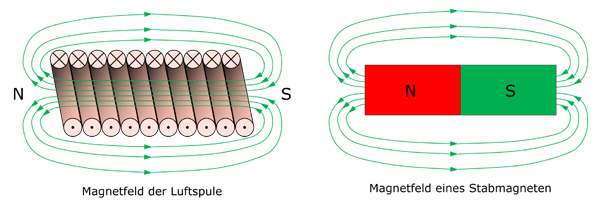
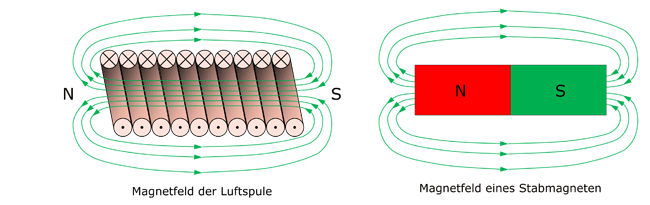
update

diff --git a/docs/searchindex.js b/docs/searchindex.js
@@ -1,1 +1,1 @@
-Search.setIndex({"docnames": ["geber/drehgeber", "grundlagen/grundlagen", "index", "motoren/asyncMot", "motoren/dcMot", "motoren/syncMot", "motoren/weitMot"], "filenames": ["geber/drehgeber.rst", "grundlagen/grundlagen.rst", "index.rst", "motoren/asyncMot.rst", "motoren/dcMot.rst", "motoren/syncMot.rst", "motoren/weitMot.rst"], "titles": ["Drehgeber", "Grundlagen elektrischer Maschinen", "elMaDocs", "Asynchronmotoren", "Gleichstrommotoren", "Synchronmotoren", "Weitere Motortypen"], "terms": {"dienen": 1, "der": [1, 6], "umformung": 1, "von": 1, "energi": 1, "generatoren": 1, "erzeugen": 1, "au": 1, "mechanisch": 1, "motoren": [1, 2], "rotierend": 1, "umform": 1, "wandeln": 1, "frequenz": 1, "und": 1, "spannung": 1, "trotz": 1, "aller": 1, "vielfalt": 1, "im": 1, "konstruktiven": 1, "detail": 1, "nach": 1, "dem": 1, "ausgef\u00fchrt": 1, "sein": 1, "k\u00f6nnen": 1, "i\u00e4sst": 1, "sich": 1, "ihr": 1, "wirkungsweis": 1, "stet": 1, "durch": 1, "anwendung": 1, "nur": 1, "drei": 1, "physikalischen": 1, "grundgesetzen": 1, "verstehen": 1, "beschreiben": 1, "induktionsgesetz": 1, "durchflutungsgesetz": 1, "kraftwirkungsgesetz": 1, "tbd": 1, "ein": [1, 6], "r\u00fcckblick": 1, "auf": 1, "die": 1, "entwicklung": 1, "zeigt": 1, "den": 1, "weg": 1, "war": 1, "fr\u00fcher": 1, "antrieb": 1, "mit": 1, "fester": 1, "drehzahl": 1, "\u00fcber": 1, "einen": 1, "drehstromasynchronmotor": 1, "verteilung": 1, "mechanischen": 1, "leistung": 1, "transmissionen": 1, "\u00fcblich": 1, "ging": 1, "trend": 1, "end": 1, "90er": 1, "verst\u00e4rkt": 1, "zum": 1, "angepassten": 1, "einzelmotorenantrieb": 1, "modul": 1, "einsatz": 1, "halbleitertechnik": 1, "beg\u00fcnstigt": 1, "dies": 1, "zun\u00e4chst": 1, "fanden": 1, "halbleiterger\u00e4t": 1, "al": 1, "netzgef\u00fchrt": 1, "stromricht": 1, "steller": 1, "gleichstrombereich": 1, "eingang": 1, "technik": 1, "drehzahlvariablen": 1, "damit": 1, "kann": 1, "ankerspannung": 1, "gleichstrommotor": 1, "weiten": 1, "bereichen": 1, "kontinuierlich": 1, "nahezu": 1, "verlustfrei": 1, "verstellt": 1, "werden": 1, "verstellung": 1, "erfolgen": 1, "verschlei\u00dfbehaftet": 1, "stellwiderst\u00e4nd": 1, "usw": 1, "entfallen": 1, "ankerstrom": 1, "auch": [1, 3], "gleichzeitig": 1, "drehmoment": 1, "geregelt": 1, "begrenzt": 1, "diesem": 1, "wege": 1, "lassen": 1, "aufbauen": 1, "sanft": 1, "ruckfrei": 1, "anlaufen": 1, "gew\u00fcnscht": 1, "vorgew\u00e4hlto": 1, "lastunabh\u00e4ngig": 1, "halten": 1, "einer": 1, "hohen": 1, "dynamik": 1, "arbeiten": 1, "ben\u00f6tigt": 1, "stromwenderapparat": 1, "hierin": 1, "begr\u00fcndet": 1, "liegt": 1, "stark": 1, "verbessert": 1, "b\u00fcrstenstandzeiten": 1, "bi": 1, "zu": 1, "20": 1, "000": 1, "betriebsstunden": 1, "wegen": 1, "de": 1, "verschlei\u00df": 1, "an": 1, "stromwend": 1, "b\u00fcrsten": 1, "gewiss": 1, "wartungsaufwand": 1, "\u00fcberdi": 1, "erfordert": 1, "r\u00fccksichtnahm": 1, "manchen": 1, "einsatzf\u00e4llen": 1, "z": 1, "b": 1, "bei": 1, "aggressiv": 1, "atmosph\u00e4r": 1, "r\u00fcttelkr\u00e4ften": 1, "drehzahlen": 1, "4": 1, "500": 1, "min": 1, "l": 1, "stillstandsbelastung": 1, "solchen": 1, "hat": 1, "drehstrommotor": 1, "kurzschlussl\u00e4uf": 1, "vorteil": 1, "ihm": 1, "verschlei\u00dffrei": 1, "drehfeld": 1, "vom": 1, "st\u00e4nder": 1, "l\u00e4ufer": 1, "\u00fcbertragen": 1, "wird": 1, "einfach": 1, "aufgebaut": 1, "k\u00e4figwicklung": 1, "l\u00e4sst": 1, "hohe": 1, "vollst\u00e4ndig": 1, "kapselung": 1, "erm\u00f6glicht": 1, "betrieb": 1, "fast": 1, "jeder": 1, "umgebung": 1, "frequenzumricht": 1, "zur": 1, "speisung": 1, "drehfeldmaschinen": 1, "bracht": 1, "so": 1, "umorientierung": 1, "elektrischen": 1, "antriebstechnik": 1, "bislang": 1, "netz": 1, "vorgegeben": 1, "fest": 1, "synchron": [1, 2], "gebunden": 1, "e": 1, "jedem": 1, "normmotor": 1, "machen": 1, "wechselstrom": 1, "drehstromnetz": 1, "variiert": 1, "dass": 1, "motor": 1, "stellbereichen": 1, "drehzahlvariabel": 1, "betrieben": 1, "elektronik": 1, "erlaubt": 1, "dabei": 1, "gute": 1, "anpassung": 1, "charakteristiken": 1, "arbeit": 1, "kraftmaschinen": 1, "einf\u00fchrung": 1, "digitaltechnik": 1, "regelverfahren": 1, "sogar": 1, "besser": 1, "dynamiken": 1, "gleichstromantrieb": 1, "erreichen": 1, "hier": 1, "zeichnen": 1, "heut": 1, "besonderen": 1, "servoantrieb": 1, "bestehend": 1, "servo": 1, "umricht": 1, "tr\u00e4gheitsmomentarmen": 1, "servomotoren": 1, "grundlagen": 2, "allgemein": 2, "da": 2, "magnetisch": 2, "feld": 2, "drehstrom": [2, 3], "oder": [2, 3], "gleichstrom": 2, "dc": 2, "aufbau": 2, "eigenschaften": 2, "synchronmotoren": 2, "permantenterregt": 2, "synchronmaschin": 2, "fremderregt": 2, "asynchronmotoren": 2, "weiter": 2, "motortypen": 2, "reluktanzmotor": 2, "drehgeb": 2, "asynchronmaschin": 3, "induktionsmaschin": 3, "video": 6, "synrm": 6, "neuer": 6, "gigant": 6, "elektrowelt": 6}, "objects": {}, "objtypes": {}, "objnames": {}, "titleterms": {"drehgeb": 0, "aufbau": [0, 3, 4, 5, 6], "eigenschaften": [0, 3, 4, 5, 6], "grundlagen": 1, "elektrisch": 1, "maschinen": 1, "allgemein": 1, "da": 1, "magnetisch": 1, "feld": 1, "drehstrom": 1, "oder": 1, "gleichstrom": 1, "elmadoc": 2, "asynchronmotoren": 3, "gleichstrommotoren": 4, "synchronmotoren": 5, "permantenterregt": 5, "synchronmaschin": 5, "fremderregt": 5, "weiter": 6, "motortypen": 6, "synchron": 6, "reluktanzmotor": 6}, "envversion": {"sphinx.domains.c": 3, "sphinx.domains.changeset": 1, "sphinx.domains.citation": 1, "sphinx.domains.cpp": 9, "sphinx.domains.index": 1, "sphinx.domains.javascript": 3, "sphinx.domains.math": 2, "sphinx.domains.python": 4, "sphinx.domains.rst": 2, "sphinx.domains.std": 2, "sphinx": 60}, "alltitles": {"Drehgeber": [[0, "drehgeber"]], "\u2026": [[0, "id1"], [0, "id2"]], "Aufbau": [[0, "aufbau"], [0, "id3"], [3, "aufbau"], [4, "aufbau"], [5, "aufbau"], [5, "id1"], [6, "aufbau"]], "Eigenschaften": [[0, "eigenschaften"], [0, "id4"], [3, "eigenschaften"], [4, "eigenschaften"], [5, "eigenschaften"], [5, "id2"], [6, "eigenschaften"]], "Grundlagen elektrischer Maschinen": [[1, "grundlagen-elektrischer-maschinen"]], "Allgemeine Grundlagen": [[1, "allgemeine-grundlagen"]], "Das magnetische Feld": [[1, "das-magnetische-feld"]], "Drehstrom oder Gleichstrom?": [[1, "drehstrom-oder-gleichstrom"]], "elMaDocs": [[2, "elmadocs"]], "Asynchronmotoren": [[3, "asynchronmotoren"]], "Gleichstrommotoren": [[4, "gleichstrommotoren"]], "Synchronmotoren": [[5, "synchronmotoren"]], "Permantenterregte Synchronmaschine": [[5, "permantenterregte-synchronmaschine"]], "Fremderregte Synchronmaschine": [[5, "fremderregte-synchronmaschine"]], "Weitere Motortypen": [[6, "weitere-motortypen"]], "Synchron-Reluktanzmotor": [[6, "synchron-reluktanzmotor"]]}, "indexentries": {}})
+Search.setIndex({"docnames": ["geber/drehgeber", "grundlagen/grundlagen", "index", "motoren/asyncMot", "motoren/dcMot", "motoren/syncMot", "motoren/weitMot"], "filenames": ["geber/drehgeber.rst", "grundlagen/grundlagen.rst", "index.rst", "motoren/asyncMot.rst", "motoren/dcMot.rst", "motoren/syncMot.rst", "motoren/weitMot.rst"], "titles": ["Drehgeber", "Grundlagen elektrischer Maschinen", "elMaDocs", "Asynchronmotoren", "Gleichstrommotoren", "Synchronmotoren", "Weitere Motortypen"], "terms": {"dienen": 1, "der": [1, 6], "umformung": 1, "von": 1, "energi": 1, "generatoren": 1, "erzeugen": 1, "au": 1, "mechanisch": 1, "motoren": [1, 2], "rotierend": 1, "umform": 1, "wandeln": 1, "frequenz": 1, "und": 1, "spannung": 1, "trotz": 1, "aller": 1, "vielfalt": 1, "im": 1, "konstruktiven": 1, "detail": 1, "nach": 1, "dem": 1, "ausgef\u00fchrt": 1, "sein": 1, "k\u00f6nnen": 1, "i\u00e4sst": 1, "sich": 1, "ihr": 1, "wirkungsweis": 1, "stet": 1, "durch": 1, "anwendung": 1, "nur": 1, "drei": 1, "physikalischen": 1, "grundgesetzen": 1, "verstehen": 1, "beschreiben": 1, "induktionsgesetz": 1, "durchflutungsgesetz": 1, "kraftwirkungsgesetz": 1, "je": 1, "gr\u00f6\u00dfer": 1, "zahl": 1, "nebeneinand": 1, "liegenden": 1, "gleichsinnig": 1, "vom": 1, "strom": 1, "durchflossenen": 1, "leiter": 1, "ist": 1, "desto": 1, "st\u00e4rker": 1, "umschlie\u00dfend": 1, "magnetfeld": 1, "spule": 1, "mit": 1, "ein": [1, 6], "stabmagneten": 1, "vergleichbar": 1, "dort": 1, "wo": 1, "feldlinien": 1, "verlassen": 1, "bildet": 1, "nordpol": 1, "sie": 1, "eindringen": 1, "s\u00fcdpol": 1, "stellt": 1, "somit": 1, "magnet": 1, "dar": 1, "ausschalten": 1, "l\u00e4sst": 1, "elektromagnet": 1, "allerd": 1, "f\u00fcr": 1, "ausbildung": 1, "starken": 1, "luftspul": 1, "relativ": 1, "hoher": 1, "notwendig": 1, "einem": 1, "gr\u00f6\u00dferen": 1, "querschnitt": 1, "den": 1, "wickeldraht": 1, "vermeidung": 1, "einer": 1, "unzul\u00e4ssigen": 1, "erw\u00e4rmung": 1, "wicklung": 1, "verbunden": 1, "bei": 1, "stromfluss": 1, "einen": 1, "kreisf\u00f6rmigen": 1, "entstehen": 1, "konzentrisch": 1, "um": 1, "flie\u00dft": 1, "hinein": 1, "verlaufen": 1, "uhrzeigersinn": 1, "wird": 1, "stromrichtung": 1, "umgekehrt": 1, "\u00e4ndert": 1, "richtung": 1, "kraft": 1, "bzw": 1, "st\u00e4rke": 1, "de": 1, "h\u00f6he": 1, "flie\u00dfenden": 1, "strome": 1, "abstand": 1, "zum": 1, "abh\u00e4ngig": 1, "obig": 1, "gleichung": 1, "zeigt": 1, "kraftwirkung": 1, "geraden": 1, "zusammenhang": 1, "feldst\u00e4rk": 1, "h": 1, "gleichungen": 1, "unten": 1, "zeigen": 1, "welch": 1, "gr\u00f6\u00dfen": 1, "zylindrischen": 1, "beeinflussen": 1, "wirkung": 1, "erheblich": 1, "steigern": 1, "wenn": 1, "spulenhohlraum": 1, "massiv": 1, "zylindrisch": 1, "eisenst\u00fcck": 1, "eingef\u00fchrt": 1, "jede": 1, "spulenk\u00f6rp": 1, "befindlich": 1, "medium": 1, "durchdrungen": 1, "konstant": 1, "feldlinienzahl": 1, "stoff": 1, "luft": 1, "eisen": 1, "sehr": 1, "unterschiedlich": 1, "kraftwirkungen": 1, "verursachen": 1, "scheint": 1, "jeder": 1, "bestimmten": 1, "widerstand": 1, "zu": 1, "gering": 1, "al": 1, "ander": 1, "formuliert": 1, "leitf\u00e4higkeit": 1, "h\u00f6her": 1, "verst\u00e4rkend": 1, "kernmateri": 1, "entsteht": 1, "starker": 1, "beruht": 1, "darauf": 1, "dass": 1, "bestimmt": 1, "materialien": 1, "elementarmagnet": 1, "unter": 1, "einfluss": 1, "fremdfeld": 1, "ausrichten": 1, "damit": 1, "selbst": 1, "magneten": 1, "werden": 1, "ihnen": 1, "geh\u00f6ren": 1, "kobalt": 1, "nickel": 1, "sind": 1, "ferromagnetisch": 1, "aufgrund": 1, "dieser": 1, "eigenschaft": 1, "besitzen": 1, "gute": 1, "stark": 1, "\u00e4u\u00dferen": 1, "ver\u00e4nderung": 1, "hilf": 1, "permeabilit\u00e4t": 1, "\u00b5": 1, "beschrieben": 1, "permittivit\u00e4t": 1, "kondens": 1, "ma\u00dfstab": 1, "dient": 1, "auch": [1, 3], "hier": 1, "materiefrei": 1, "raum": 1, "vakuum": 1, "gr\u00f6\u00dfe": 1, "absolut": 1, "wert": 1, "feldkonstant": 1, "\u00b50": 1, "genannt": 1, "h\u00f6here": 1, "f\u00fchrt": 1, "verdichtung": 1, "konzentr": 1, "innerhalb": 1, "eingebrachten": 1, "feldliniendicht": 1, "erzeugt": 1, "gr\u00f6\u00dfere": 1, "produkt": 1, "permeabilt\u00e4t": 1, "macht": 1, "aussag": 1, "\u00fcber": 1, "flussdicht": 1, "b": 1, "indukt": 1, "kann": 1, "etwa": 1, "aussagen": 1, "denn": 1, "ber\u00fccksichtigt": 1, "materi": 1, "r\u00fcckblick": 1, "auf": 1, "entwicklung": 1, "weg": 1, "war": 1, "fr\u00fcher": 1, "antrieb": 1, "fester": 1, "drehzahl": 1, "drehstromasynchronmotor": 1, "verteilung": 1, "mechanischen": 1, "leistung": 1, "transmissionen": 1, "\u00fcblich": 1, "ging": 1, "trend": 1, "end": 1, "90er": 1, "verst\u00e4rkt": 1, "angepassten": 1, "einzelmotorenantrieb": 1, "modul": 1, "einsatz": 1, "halbleitertechnik": 1, "beg\u00fcnstigt": 1, "dies": 1, "zun\u00e4chst": 1, "fanden": 1, "halbleiterger\u00e4t": 1, "netzgef\u00fchrt": 1, "stromricht": 1, "steller": 1, "gleichstrombereich": 1, "eingang": 1, "technik": 1, "drehzahlvariablen": 1, "ankerspannung": 1, "gleichstrommotor": 1, "weiten": 1, "bereichen": 1, "kontinuierlich": 1, "nahezu": 1, "verlustfrei": 1, "verstellt": 1, "verstellung": 1, "erfolgen": 1, "verschlei\u00dfbehaftet": 1, "stellwiderst\u00e4nd": 1, "usw": 1, "entfallen": 1, "ankerstrom": 1, "gleichzeitig": 1, "drehmoment": 1, "geregelt": 1, "begrenzt": 1, "diesem": 1, "wege": 1, "lassen": 1, "aufbauen": 1, "sanft": 1, "ruckfrei": 1, "anlaufen": 1, "gew\u00fcnscht": 1, "vorgew\u00e4hlto": 1, "lastunabh\u00e4ngig": 1, "halten": 1, "hohen": 1, "dynamik": 1, "arbeiten": 1, "ben\u00f6tigt": 1, "stromwenderapparat": 1, "hierin": 1, "begr\u00fcndet": 1, "liegt": 1, "verbessert": 1, "b\u00fcrstenstandzeiten": 1, "bi": 1, "20": 1, "000": 1, "betriebsstunden": 1, "wegen": 1, "verschlei\u00df": 1, "an": 1, "stromwend": 1, "b\u00fcrsten": 1, "gewiss": 1, "wartungsaufwand": 1, "\u00fcberdi": 1, "erfordert": 1, "r\u00fccksichtnahm": 1, "manchen": 1, "einsatzf\u00e4llen": 1, "z": 1, "aggressiv": 1, "atmosph\u00e4r": 1, "r\u00fcttelkr\u00e4ften": 1, "drehzahlen": 1, "4": 1, "500": 1, "min": 1, "l": 1, "stillstandsbelastung": 1, "solchen": 1, "hat": 1, "drehstrommotor": 1, "kurzschlussl\u00e4uf": 1, "vorteil": 1, "ihm": 1, "verschlei\u00dffrei": 1, "drehfeld": 1, "st\u00e4nder": 1, "l\u00e4ufer": 1, "\u00fcbertragen": 1, "einfach": 1, "aufgebaut": 1, "k\u00e4figwicklung": 1, "hohe": 1, "vollst\u00e4ndig": 1, "kapselung": 1, "erm\u00f6glicht": 1, "betrieb": 1, "fast": 1, "umgebung": 1, "frequenzumricht": 1, "zur": 1, "speisung": 1, "drehfeldmaschinen": 1, "bracht": 1, "so": 1, "umorientierung": 1, "elektrischen": 1, "antriebstechnik": 1, "bislang": 1, "netz": 1, "vorgegeben": 1, "fest": 1, "synchron": [1, 2], "gebunden": 1, "e": 1, "jedem": 1, "normmotor": 1, "machen": 1, "wechselstrom": 1, "drehstromnetz": 1, "variiert": 1, "motor": 1, "stellbereichen": 1, "drehzahlvariabel": 1, "betrieben": 1, "elektronik": 1, "erlaubt": 1, "dabei": 1, "anpassung": 1, "charakteristiken": 1, "arbeit": 1, "kraftmaschinen": 1, "einf\u00fchrung": 1, "digitaltechnik": 1, "regelverfahren": 1, "sogar": 1, "besser": 1, "dynamiken": 1, "gleichstromantrieb": 1, "erreichen": 1, "zeichnen": 1, "heut": 1, "besonderen": 1, "servoantrieb": 1, "bestehend": 1, "servo": 1, "umricht": 1, "tr\u00e4gheitsmomentarmen": 1, "servomotoren": 1, "grundlagen": 2, "allgemein": 2, "da": 2, "magnetisch": 2, "feld": 2, "die": 2, "magnetischen": 2, "grundgr\u00f6\u00dfen": 2, "drehstrom": [2, 3], "oder": [2, 3], "gleichstrom": 2, "dc": 2, "aufbau": 2, "eigenschaften": 2, "synchronmotoren": 2, "permantenterregt": 2, "synchronmaschin": 2, "fremderregt": 2, "asynchronmotoren": 2, "weiter": 2, "motortypen": 2, "reluktanzmotor": 2, "drehgeb": 2, "asynchronmaschin": 3, "induktionsmaschin": 3, "video": 6, "synrm": 6, "neuer": 6, "gigant": 6, "elektrowelt": 6}, "objects": {}, "objtypes": {}, "objnames": {}, "titleterms": {"drehgeb": 0, "aufbau": [0, 3, 4, 5, 6], "eigenschaften": [0, 3, 4, 5, 6], "grundlagen": 1, "elektrisch": 1, "maschinen": 1, "allgemein": 1, "da": 1, "magnetisch": 1, "feld": 1, "die": 1, "magnetischen": 1, "grundgr\u00f6\u00dfen": 1, "drehstrom": 1, "oder": 1, "gleichstrom": 1, "elmadoc": 2, "asynchronmotoren": 3, "gleichstrommotoren": 4, "synchronmotoren": 5, "permantenterregt": 5, "synchronmaschin": 5, "fremderregt": 5, "weiter": 6, "motortypen": 6, "synchron": 6, "reluktanzmotor": 6}, "envversion": {"sphinx.domains.c": 3, "sphinx.domains.changeset": 1, "sphinx.domains.citation": 1, "sphinx.domains.cpp": 9, "sphinx.domains.index": 1, "sphinx.domains.javascript": 3, "sphinx.domains.math": 2, "sphinx.domains.python": 4, "sphinx.domains.rst": 2, "sphinx.domains.std": 2, "sphinx": 60}, "alltitles": {"Drehgeber": [[0, "drehgeber"]], "\u2026": [[0, "id1"], [0, "id2"]], "Aufbau": [[0, "aufbau"], [0, "id3"], [3, "aufbau"], [4, "aufbau"], [5, "aufbau"], [5, "id1"], [6, "aufbau"]], "Eigenschaften": [[0, "eigenschaften"], [0, "id4"], [3, "eigenschaften"], [4, "eigenschaften"], [5, "eigenschaften"], [5, "id2"], [6, "eigenschaften"]], "Grundlagen elektrischer Maschinen": [[1, "grundlagen-elektrischer-maschinen"]], "Allgemeine Grundlagen": [[1, "allgemeine-grundlagen"]], "Das magnetische Feld": [[1, "das-magnetische-feld"]], "Die magnetischen Grundgr\u00f6\u00dfen": [[1, "die-magnetischen-grundgroszen"]], "Drehstrom oder Gleichstrom?": [[1, "drehstrom-oder-gleichstrom"]], "elMaDocs": [[2, "elmadocs"]], "Asynchronmotoren": [[3, "asynchronmotoren"]], "Gleichstrommotoren": [[4, "gleichstrommotoren"]], "Synchronmotoren": [[5, "synchronmotoren"]], "Permantenterregte Synchronmaschine": [[5, "permantenterregte-synchronmaschine"]], "Fremderregte Synchronmaschine": [[5, "fremderregte-synchronmaschine"]], "Weitere Motortypen": [[6, "weitere-motortypen"]], "Synchron-Reluktanzmotor": [[6, "synchron-reluktanzmotor"]]}, "indexentries": {}})

diff --git a/docs/grundlagen/grundlagen.html b/docs/grundlagen/grundlagen.html
@@ -177,11 +177,78 @@
 </div>
 <section id="das-magnetische-feld">
 <h3>Das magnetische Feld<a class="headerlink" href="#das-magnetische-feld" title="Link to this heading">¶</a></h3>
-<a class="reference internal image-reference" href="../_images/magnFeld.png"><img alt="../_images/magnFeld.png" src="../_images/magnFeld.png" style="width: 600px;" /></a>
+<p>Je größer die Zahl der nebeneinander liegenden und gleichsinnig vom Strom durchflossenen Leiter ist, desto stärker ist das die Leiter umschließende magnetische Feld. Das Magnetfeld der Spule ist mit dem eines Stabmagneten vergleichbar. Dort wo die Feldlinien die Spule verlassen, bildet sich ein magnetischer Nordpol; dort wo sie in die Spule eindringen, ein Südpol.</p>
+<p>Die Spule stellt somit ein Magnet dar, der sich elektrisch ein- und ausschalten lässt (Elektromagnet). Allerdings ist für die Ausbildung eines starken Magnetfeldes in der Luftspule ein relativ hoher Strom notwendig, der mit einem größeren Querschnitt für den Wickeldraht (Vermeidung einer unzulässigen Erwärmung der Wicklung) verbunden ist.</p>
+<a class="reference internal image-reference" href="../_images/magnFeld.png"><img alt="../_images/magnFeld.png" src="../_images/magnFeld.png" style="width: 700px;" /></a>
 <div class="line-block">
 <div class="line"><br /></div>
 </div>
-<p>tbd</p>
+<div class="line-block">
+<div class="line"><br /></div>
+</div>
+</section>
+<section id="die-magnetischen-grundgroszen">
+<h3>Die magnetischen Grundgrößen<a class="headerlink" href="#die-magnetischen-grundgroszen" title="Link to this heading">¶</a></h3>
+<p>Bei einem Stromfluss durch einen kreisförmigen Leiter, entstehen konzentrische Feldlinien um den Leiter. Fließt ein Strom in den Leiter hinein, verlaufen die Feldlinien im Uhrzeigersinn. Wird die Stromrichtung umgekehrt, ändert sich die Richtung der Feldlinien. Die magnetische Kraft bzw. Stärke des Feldes ist von der Höhe des fließenden Stromes und vom Abstand zum Leiter abhängig.</p>
+<a class="reference internal image-reference" href="../_images/magnFeldstaerke0.png"><img alt="../_images/magnFeldstaerke0.png" src="../_images/magnFeldstaerke0.png" style="width: 700px;" /></a>
+<div class="line-block">
+<div class="line"><br /></div>
+</div>
+<p>Obige Gleichung zeigt die magnetische Kraftwirkung um einen geraden Leiter im Zusammenhang mit der magnetischen Feldstärke H (magnetische Kraft).
+Die Gleichungen unten zeigen, welche Größen die magnetische Feldstärke einer zylindrischen Luftspule beeinflussen.</p>
+<div class="line-block">
+<div class="line"><br /></div>
+</div>
+<a class="reference internal image-reference" href="../_images/magnFeldstaerke.png"><img alt="../_images/magnFeldstaerke.png" src="../_images/magnFeldstaerke.png" style="width: 700px;" /></a>
+<div class="line-block">
+<div class="line"><br /></div>
+</div>
+<div class="line-block">
+<div class="line"><br /></div>
+</div>
+<p>Die magnetische Wirkung einer Spule lässt sich erheblich steigern, wenn in den Spulenhohlraum ein massives zylindrisches Eisenstück eingeführt wird. Jedes im Spulenkörper befindliche Medium wird von den Feldlinien durchdrungen. Da bei konstanter Feldstärke und Feldlinienzahl die Stoffe Luft und Eisen sehr unterschiedlich Kraftwirkungen verursachen, scheint jeder Stoff einen bestimmten <strong>magnetischen Widerstand</strong> zu verursachen. Der magnetische Widerstand von Eisen ist geringer als der von Luft oder anders formuliert, die <strong>magnetische Leitfähigkeit</strong> des Eisens ist höher. Durch die Magnetfeld verstärkende Wirkung des Kernmaterials entsteht ein starker Elektromagnet.</p>
+<a class="reference internal image-reference" href="../_images/eisenkern.png"><img alt="../_images/eisenkern.png" src="../_images/eisenkern.png" style="width: 700px;" /></a>
+<div class="line-block">
+<div class="line"><br /></div>
+</div>
+<div class="line-block">
+<div class="line"><br /></div>
+</div>
+<blockquote>
+<div><p><strong>Die verstärkende Wirkung beruht darauf, dass bestimmte Materialien ihre Elementarmagnete unter dem Einfluss magnetischer Fremdfelder ausrichten und damit selbst zu einem Magneten werden.</strong></p>
+</div></blockquote>
+<p>Zu ihnen gehören Eisen, Kobalt und Nickel. Sie sind „ferromagnetisch“. Aufgrund dieser Eigenschaft, besitzen sie eine gute magnetische Leitfähigkeit. Die Leitfähigkeit ist allerdings stark von der Stärke des äußeren Magnetfeldes abhängig.</p>
+<p>Die Veränderung der magnetischen Leitfähigkeit durch bestimmte Stoffe wird mit Hilfe der <strong>magnetischen Permeabilität µ</strong> beschrieben. Sie ist vergleichbar mit der Permittivität des Kondensators. Als Maßstab dient auch hier der materiefreie Raum – das Vakuum. Im Vakuum ist die Permeabilität eine konstante Größe. Der absolute Wert dieser Größe wird <strong>absolute Permeabilität</strong> oder <strong>magnetische Feldkonstante µ0</strong> genannt.</p>
+<div class="line-block">
+<div class="line"><br /></div>
+</div>
+<a class="reference internal image-reference" href="../_images/perme.png"><img alt="../_images/perme.png" src="../_images/perme.png" style="width: 700px;" /></a>
+<div class="line-block">
+<div class="line"><br /></div>
+</div>
+<div class="line-block">
+<div class="line"><br /></div>
+</div>
+<blockquote>
+<div><p><strong>Eine höhere magnetische Leitfähigkeit führt zu einer Verdichtung der Feldlinien und somit zu einer Konzentration des magnetischen Feldes innerhalb des in die Spule eingebrachten Stoffes.</strong> Die höhere Feldliniendichte erzeugt eine größere magnetische Kraft.</p>
+</div></blockquote>
+<div class="line-block">
+<div class="line"><br /></div>
+</div>
+<p>Das Produkt aus der magnetischer Feldstärke und der Permeabiltät macht eine Aussage über die Feldliniendichte. Sie wird <strong>magnetische Flussdichte B</strong> oder <strong>magnetische Induktion</strong> genannt.</p>
+<div class="line-block">
+<div class="line"><br /></div>
+</div>
+<a class="reference internal image-reference" href="../_images/magnFlussd.png"><img alt="../_images/magnFlussd.png" src="../_images/magnFlussd.png" style="width: 700px;" /></a>
+<div class="line-block">
+<div class="line"><br /></div>
+</div>
+<div class="line-block">
+<div class="line"><br /></div>
+</div>
+<blockquote>
+<div><p><strong>Nur die magnetische Flussdichte B kann etwas über die Stärke eines Magnetfeldes aussagen, denn nur sie berücksichtigt die Permeabilität und somit die magnetische Leitfähigkeit eines Materials bzw. der Luft.</strong></p>
+</div></blockquote>
 <div class="line-block">
 <div class="line"><br /></div>
 </div>

diff --git a/docs/index.html b/docs/index.html
@@ -154,6 +154,7 @@
 <li class="toctree-l1"><a class="reference internal" href="grundlagen/grundlagen.html">Grundlagen</a><ul>
 <li class="toctree-l2"><a class="reference internal" href="grundlagen/grundlagen.html#allgemeine-grundlagen">Allgemeine Grundlagen</a><ul>
 <li class="toctree-l3"><a class="reference internal" href="grundlagen/grundlagen.html#das-magnetische-feld">Das magnetische Feld</a></li>
+<li class="toctree-l3"><a class="reference internal" href="grundlagen/grundlagen.html#die-magnetischen-grundgroszen">Die magnetischen Grundgrößen</a></li>
 <li class="toctree-l3"><a class="reference internal" href="grundlagen/grundlagen.html#drehstrom-oder-gleichstrom">Drehstrom oder Gleichstrom?</a></li>
 </ul>
 </li>

diff --git a/source/grundlagen/grundlagen.rst b/source/grundlagen/grundlagen.rst
@@ -31,12 +31,80 @@ Trotz aller Vielfalt im konstruktiven Detail, nach dem elektrische Maschinen aus
 Das magnetische Feld
 ^^^^^^^^^^^^^^^^^^^^
 
+Je größer die Zahl der nebeneinander liegenden und gleichsinnig vom Strom durchflossenen Leiter ist, desto stärker ist das die Leiter umschließende magnetische Feld. Das Magnetfeld der Spule ist mit dem eines Stabmagneten vergleichbar. Dort wo die Feldlinien die Spule verlassen, bildet sich ein magnetischer Nordpol; dort wo sie in die Spule eindringen, ein Südpol.  
+
+Die Spule stellt somit ein Magnet dar, der sich elektrisch ein- und ausschalten lässt (Elektromagnet). Allerdings ist für die Ausbildung eines starken Magnetfeldes in der Luftspule ein relativ hoher Strom notwendig, der mit einem größeren Querschnitt für den Wickeldraht (Vermeidung einer unzulässigen Erwärmung der Wicklung) verbunden ist.
+
 .. image:: pics/magnFeld.png
-   :width: 600px
+   :width: 700px
    
 |
 
-tbd
+|
+
+Die magnetischen Grundgrößen
+^^^^^^^^^^^^^^^^^^^^^^^^^^^^
+
+Bei einem Stromfluss durch einen kreisförmigen Leiter, entstehen konzentrische Feldlinien um den Leiter. Fließt ein Strom in den Leiter hinein, verlaufen die Feldlinien im Uhrzeigersinn. Wird die Stromrichtung umgekehrt, ändert sich die Richtung der Feldlinien. Die magnetische Kraft bzw. Stärke des Feldes ist von der Höhe des fließenden Stromes und vom Abstand zum Leiter abhängig.
+
+.. image:: pics/magnFeldstaerke0.png
+   :width: 700px
+
+|
+
+Obige Gleichung zeigt die magnetische Kraftwirkung um einen geraden Leiter im Zusammenhang mit der magnetischen Feldstärke H (magnetische Kraft).
+Die Gleichungen unten zeigen, welche Größen die magnetische Feldstärke einer zylindrischen Luftspule beeinflussen.
+
+|
+
+.. image:: pics/magnFeldstaerke.png
+   :width: 700px
+
+|
+
+|
+
+
+Die magnetische Wirkung einer Spule lässt sich erheblich steigern, wenn in den Spulenhohlraum ein massives zylindrisches Eisenstück eingeführt wird. Jedes im Spulenkörper befindliche Medium wird von den Feldlinien durchdrungen. Da bei konstanter Feldstärke und Feldlinienzahl die Stoffe Luft und Eisen sehr unterschiedlich Kraftwirkungen verursachen, scheint jeder Stoff einen bestimmten **magnetischen Widerstand** zu verursachen. Der magnetische Widerstand von Eisen ist geringer als der von Luft oder anders formuliert, die **magnetische Leitfähigkeit** des Eisens ist höher. Durch die Magnetfeld verstärkende Wirkung des Kernmaterials entsteht ein starker Elektromagnet.  
+
+.. image:: pics/eisenkern.png
+   :width: 700px
+
+|
+
+|
+
+   **Die verstärkende Wirkung beruht darauf, dass bestimmte Materialien ihre Elementarmagnete unter dem Einfluss magnetischer Fremdfelder ausrichten und damit selbst zu einem Magneten werden.** 
+
+Zu ihnen gehören Eisen, Kobalt und Nickel. Sie sind „ferromagnetisch“. Aufgrund dieser Eigenschaft, besitzen sie eine gute magnetische Leitfähigkeit. Die Leitfähigkeit ist allerdings stark von der Stärke des äußeren Magnetfeldes abhängig.
+
+Die Veränderung der magnetischen Leitfähigkeit durch bestimmte Stoffe wird mit Hilfe der **magnetischen Permeabilität µ** beschrieben. Sie ist vergleichbar mit der Permittivität des Kondensators. Als Maßstab dient auch hier der materiefreie Raum – das Vakuum. Im Vakuum ist die Permeabilität eine konstante Größe. Der absolute Wert dieser Größe wird **absolute Permeabilität** oder **magnetische Feldkonstante µ0** genannt.
+
+|
+
+.. image:: pics/perme.png
+   :width: 700px
+
+|
+
+|
+
+   **Eine höhere magnetische Leitfähigkeit führt zu einer Verdichtung der Feldlinien und somit zu einer Konzentration des magnetischen Feldes innerhalb des in die Spule eingebrachten Stoffes.** Die höhere Feldliniendichte erzeugt eine größere magnetische Kraft.
+
+|
+
+Das Produkt aus der magnetischer Feldstärke und der Permeabiltät macht eine Aussage über die Feldliniendichte. Sie wird **magnetische Flussdichte B** oder **magnetische Induktion** genannt.
+
+|
+
+.. image:: pics/magnFlussd.png
+   :width: 700px
+
+|
+
+|
+
+   **Nur die magnetische Flussdichte B kann etwas über die Stärke eines Magnetfeldes aussagen, denn nur sie berücksichtigt die Permeabilität und somit die magnetische Leitfähigkeit eines Materials bzw. der Luft.**
 
 |
 
